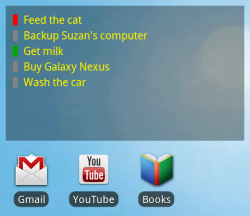
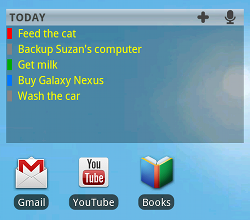
Updated Help and What's new for release 17.

diff --git a/Maniana/assets/help/help.html b/Maniana/assets/help/help.html
@@ -73,6 +73,9 @@ Clicking on a widget opens the TODAY page.
 You can control the appearance of the list widgets in the Maniana Settings screen (see below). 
 <p>
 <center><img src="list_widget.png"/></center>
+<p>
+The toolbar at the top of the widget contains shortcut icons for adding new tasks using the keyboard or by voice. The 
+toolbar can be disabled in Settings.
 
 <h2><a name="settings">Settings</a></h2>
 <h4>SOUND</h4>
@@ -86,6 +89,7 @@ You can control the appearance of the list widgets in the Maniana Settings scree
 <li><b>Startup Animation</b> - enables page scroll animation when the app starts.</li>
 <li><b>Detailed Messages</b> - enables more detailed response messages (for new users).</li>
 <li><b>Auto Task Sort</b> - when checked, tasks are always ordered with pending tasks before completed tasks before locked tasks.</li>
+<li><b>Daily Task Cleanup</b> - if checked, every night, all the completed tasks are deleted automatically.</li>
 <li><b>Locks Expiration</b> - sets locks automatic expiration (weekly, monthly or never).</li>
 </ul>
 
@@ -100,11 +104,12 @@ You can control the appearance of the list widgets in the Maniana Settings scree
 <li><b>Task Divider Color</b> - selects color of lines between tasks (can be made transparent).</li>
 </ul>
 
-<h4>LIST WIDGET APPEARANCE</h4>
+<h4>LIST WIDGET</h4>
 <ul>
 <li><b>Background Color</b> - selects the list widgets background color. Can be made partially or fully transparent.</li>
 <li><b>Text Color</b> - selects list widgets text color.</li>
 <li><b>Single Line</b> - If checked, tasks are limited to a single line of text, otherwise, a second line is used if needed.</li>
+<li><b>Show Toolbar</b> - If checked, the toolbar with the shortcut icons is displayed at the top of the list widget.</li>
 </ul>
 
 <h4>MISCELLANEOUS</h4>

diff --git a/Maniana/assets/help/whats_new.html b/Maniana/assets/help/whats_new.html
@@ -9,15 +9,14 @@ li { margin-left: -1.2em; }
 <p>
 What's new?
 <p>
-1.10.16
+1.10.17
 <ul>
-<li>Added Auto Task Sort option in Settings (off by default).</li>
-<li>Adapted to Android 4.0 user experience guidelines (affects Android 4.x phones only).</li>
-<li>Various fixes.</li>
-</ul>
-1.10.15<br>
-<ul>
-<li>Fixed the Android 4.0 menu button issue.</li>
+<li>Added widget toolbar with with new task icons (can turn off in Settings).</li>
+<li>Vibrations obeys the global Heptic Feedback setting.</li>
+<li>Optional automatic nightly deletion of completed tasks (enable in Settings)</li>
+<li>Simplified Settings screen.</li>
+<li>Migrated source code and issue tracking to Google code hosting.</li>
+<li>Improved stability.</li>
 </ul>
 Press the <b>Back</b> button to continue...
 </body>

diff --git a/Maniana/assets/help/about.html b/Maniana/assets/help/about.html
@@ -2,7 +2,6 @@
 <head><link rel="stylesheet" type="text/css" href="help.css" />
 </head>
 <body>
-<br>
 <center><img src="maniana_about.png" width="128" height="128"/></center>
 <br>
 <br>
@@ -12,6 +11,7 @@
 <center>California USA</center><br>
 <!-- TODO: why ?subject=Maniana in the link does not work? -->
 <center><a href="mailto:maniana@zapta.com">maniana@zapta.com</a></center><br>
+<center><a href="https://code.google.com/p/maniana/issues/list">Source Code Hosting</a></center><br>
 <br>
 <hr>
 <i>ma&ntilde;ana (man-yana) - Noun, an indefinite time in the future.</i>

diff --git a/Maniana/src/com/zapta/apps/maniana/services/AppServices.java b/Maniana/src/com/zapta/apps/maniana/services/AppServices.java
@@ -198,7 +198,7 @@ public class AppServices {
         releaseMediaPlayer();
         mMediaPlayer = MediaPlayer.create(mApp.context(), rawResourceId);
         
-        // Added as a response for this FC report from a user
+        // Added as a response to this FC report from a user:
         // https://code.google.com/p/maniana/issues/detail?id=8
         // Apparently MediaPlayer.create() may fail for unspecified reasons.
         if (mMediaPlayer == null) {
